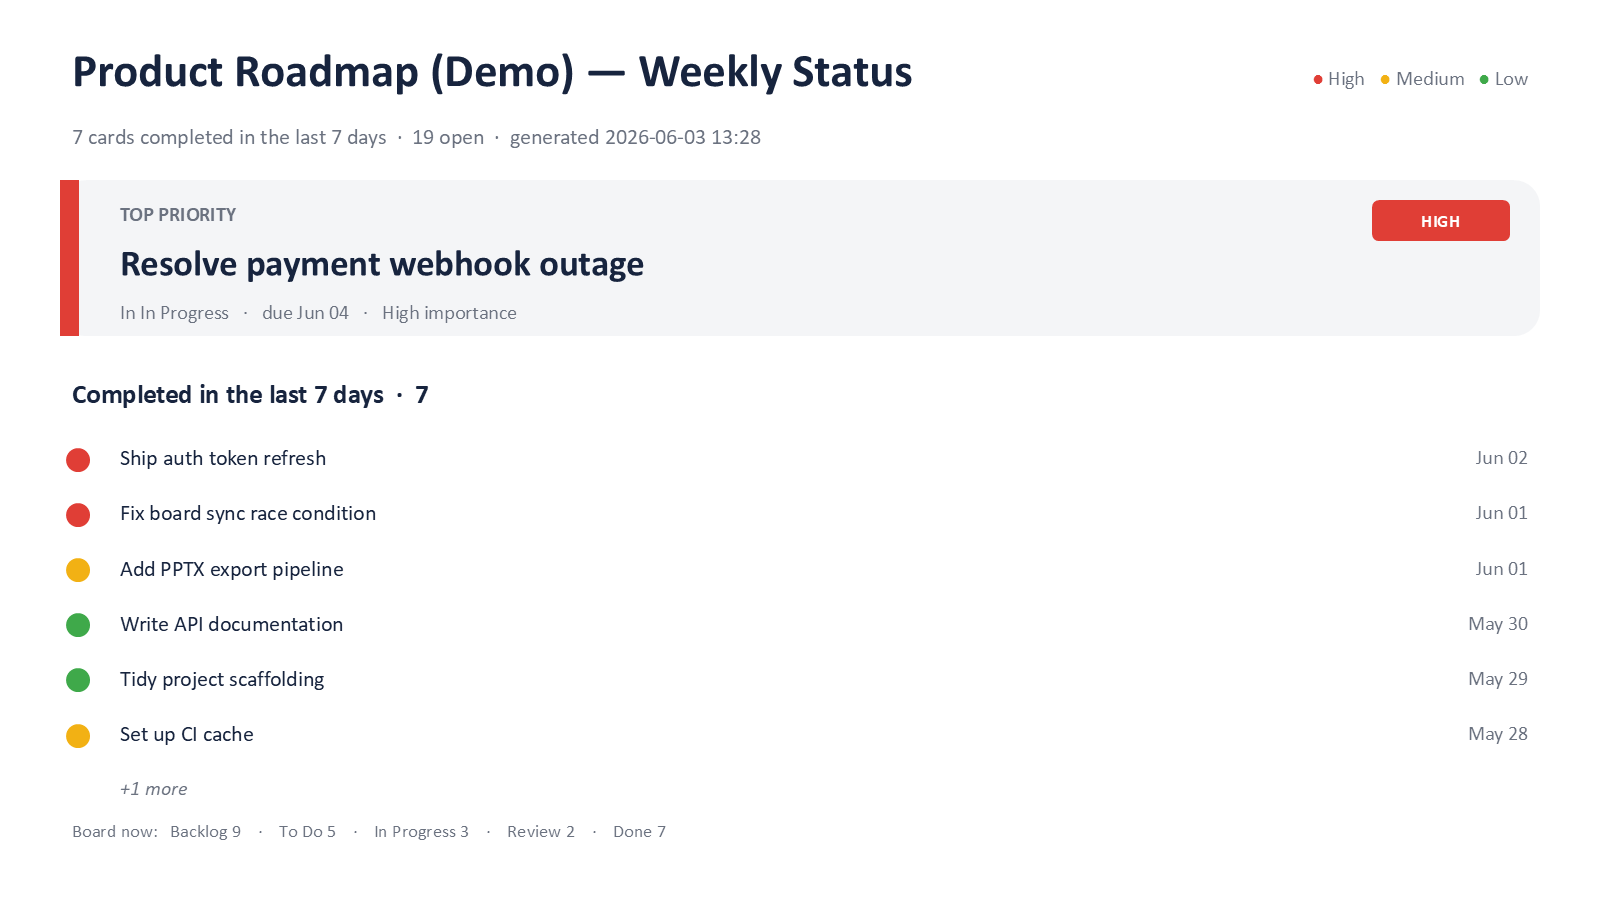
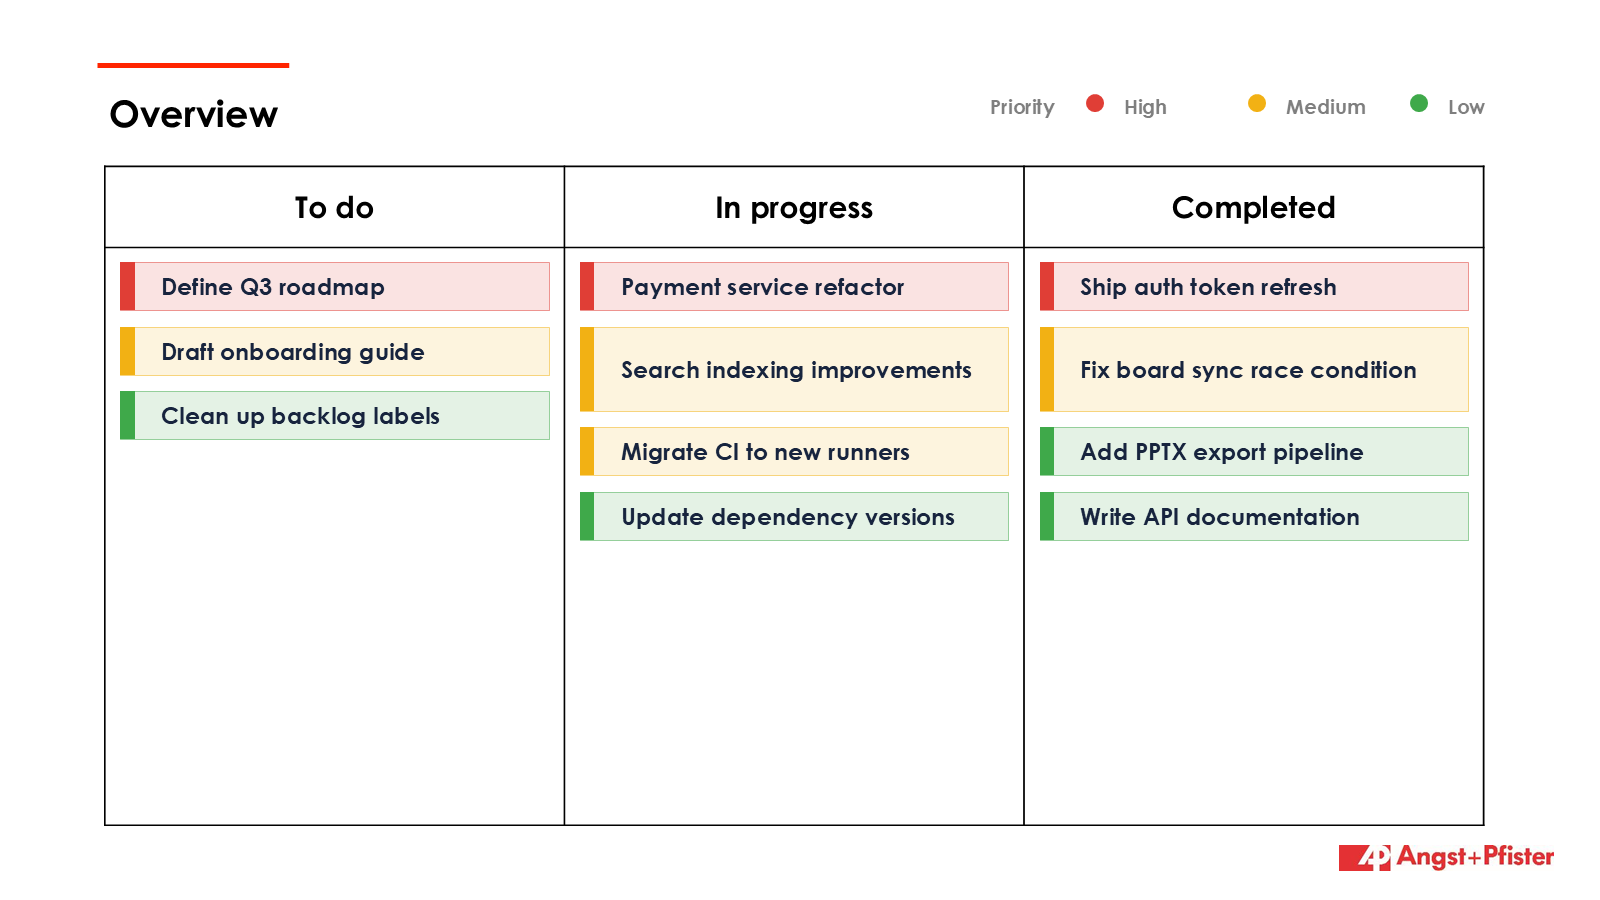
Update README status deck screenshot

diff --git a/README.md b/README.md
@@ -13,7 +13,7 @@ branded two-slide overview deck. A small pure-Python Trello CLI
 (`trello_integration.py`) is included for listing boards/lists/cards and
 creating cards.
 
-![Example slide](docs/preview.png)
+![Status deck overview slide](docs/preview.png)
 
 ## Requirements
 
